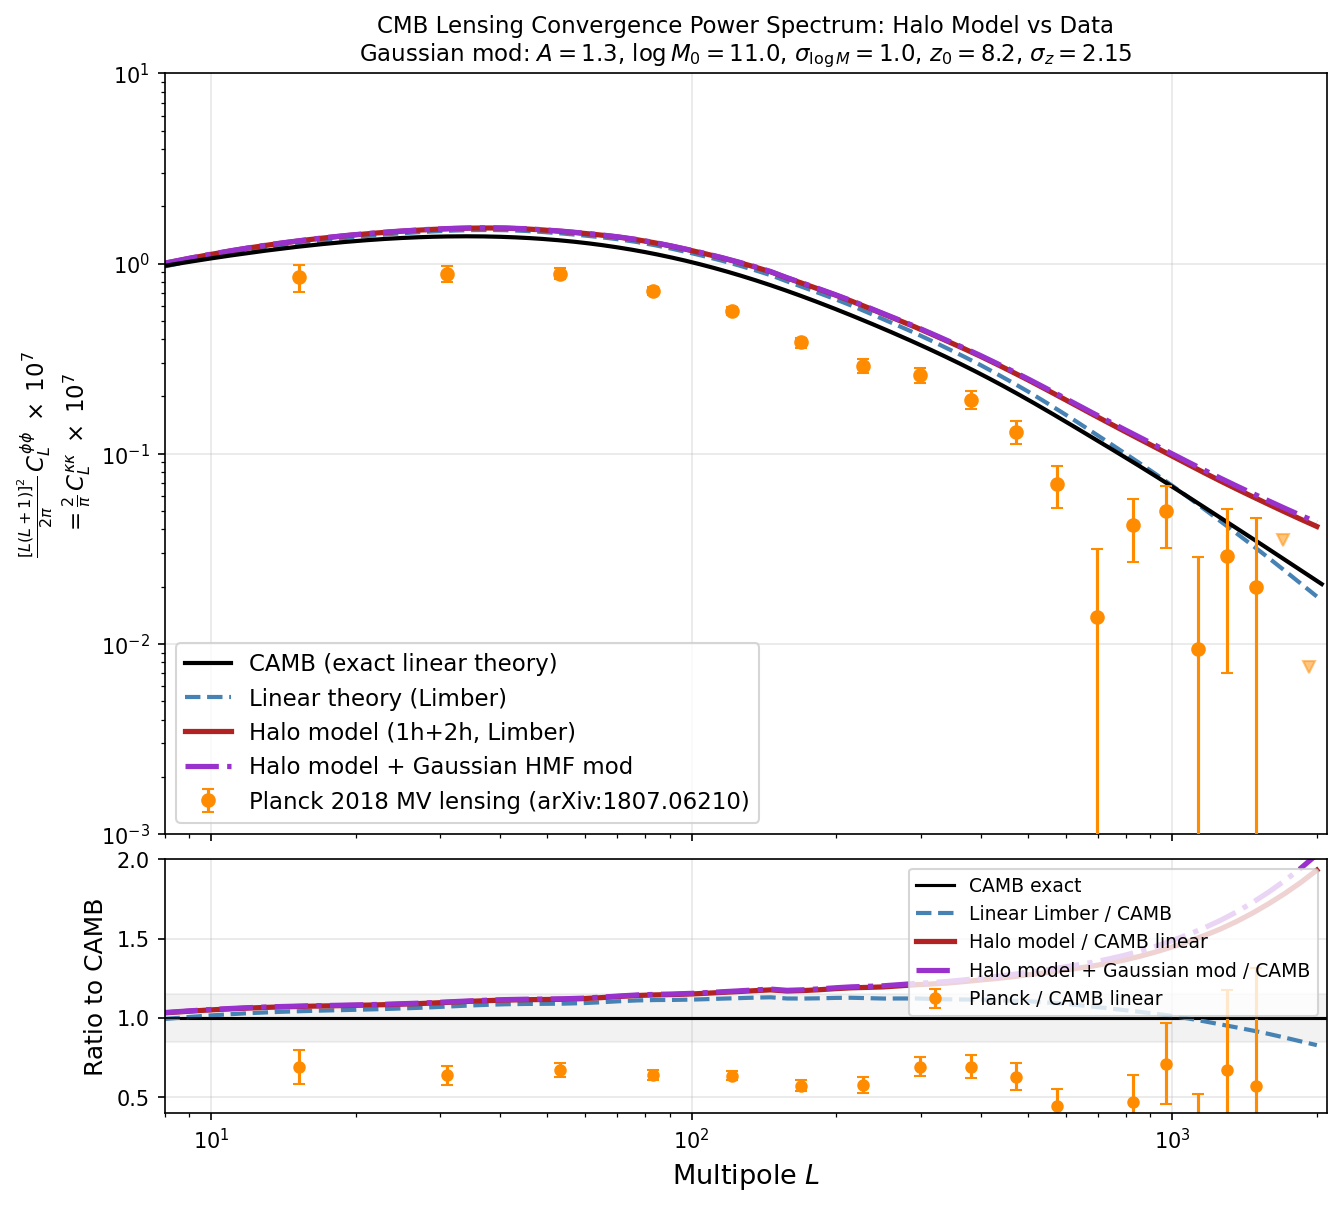
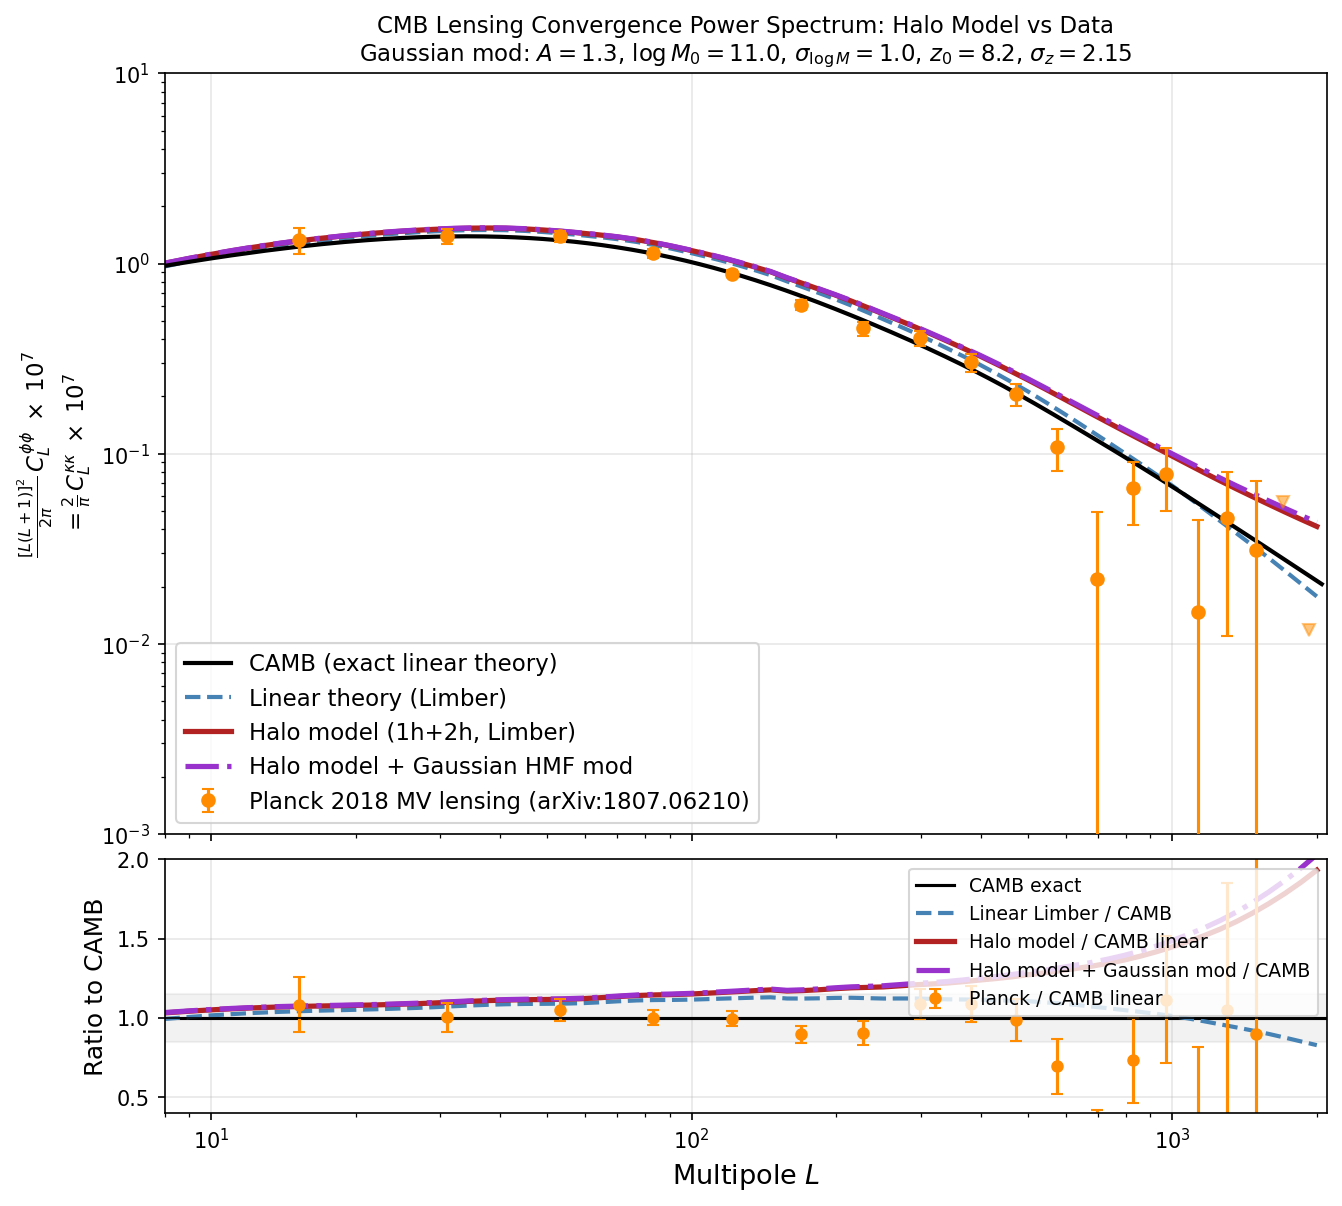
Fix Planck data unit conversion: PP -> C_L^kk requires factor pi/2
The PP column in the Planck bandpower files stores
[L(L+1)]^2/(2pi) * C_L^{phiphi} = (2/pi) * C_L^{kappakappa},
NOT C_L^{kappakappa} directly.

Previously the code applied scale_cl=(2/pi) a second time to the data,
making it appear pi/2~1.57x smaller than the theory (>>5 sigma offset).
The cosmology (Planck 2018 best-fit) was correct all along -- verified by
PP/CAMB_raw = Ahat to within 1% for every bin.

Fix: multiply loaded PP and sigma columns by pi/2 at load time so
downstream scale_cl applications and ratio calculations are consistent.

https://claude.ai/code/session_011XzqwZwV4P9fqugRxa6pyS

diff --git a/plot_cmb_lensing.py b/plot_cmb_lensing.py
@@ -212,8 +212,10 @@ try:
     # Columns: bin, L_min, L_max, L_av, PP (C_L^kappakappa), Error, Ahat
     # The PP column already stores C_L^{kappakappa} directly.
     L_eff = bp_data[:, 3]
-    C_kk_planck   = bp_data[:, 4]   # C_L^{kappakappa}  [dimensionless]
-    sigma_kk_planck = bp_data[:, 5] # 1-sigma error on C_L^{kappakappa}
+    # Column 4 (PP) stores [L(L+1)]^2/(2pi) * C_L^{phiphi} = (2/pi) * C_L^{kk}.
+    # Convert to C_L^{kappakappa} by multiplying by pi/2.
+    C_kk_planck   = bp_data[:, 4] * (np.pi / 2.0)   # C_L^{kappakappa}
+    sigma_kk_planck = bp_data[:, 5] * (np.pi / 2.0) # 1-sigma error on C_L^{kk}
 
     # Load covariance matrix (already in C_L^{kk} units)
     cov_raw = np.loadtxt("planck2018_lensing_aggressive_cov.dat")
